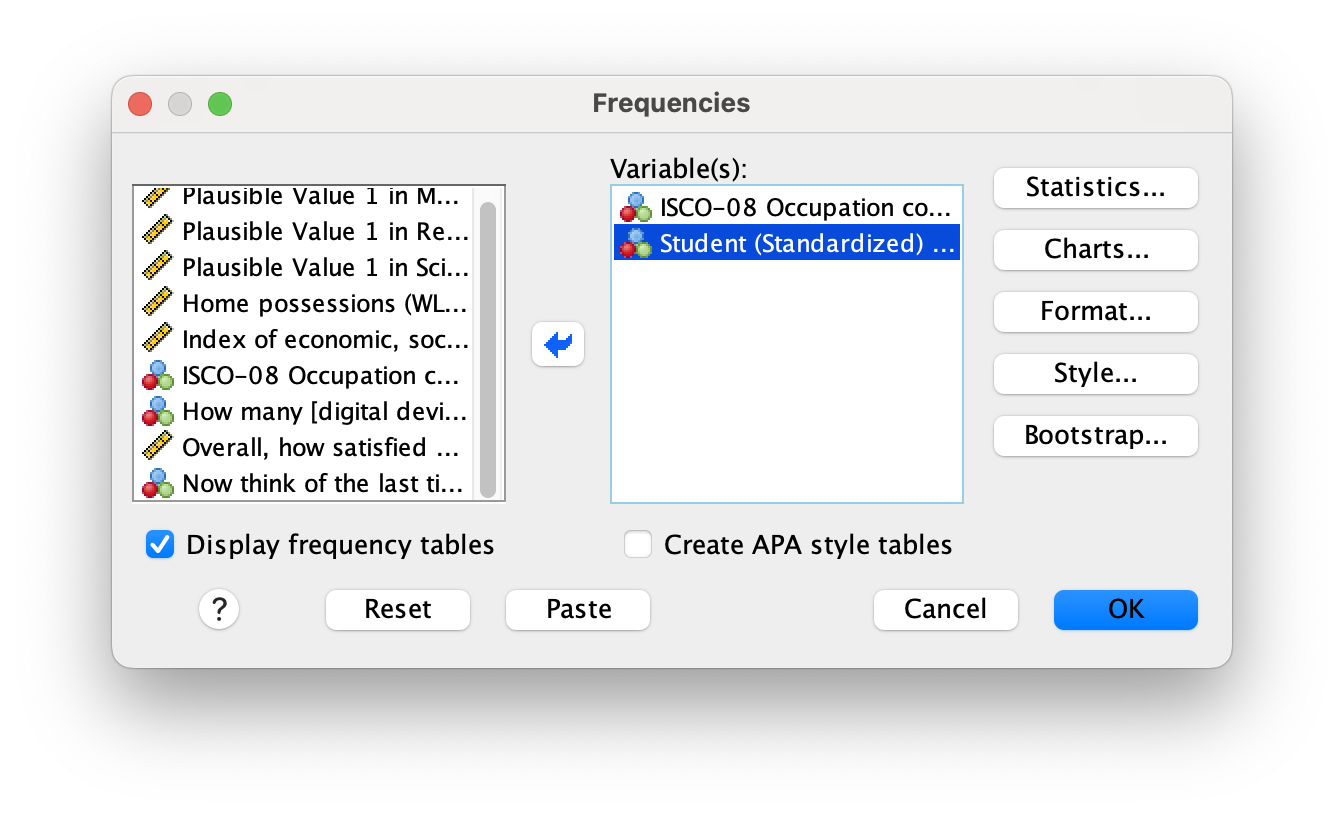
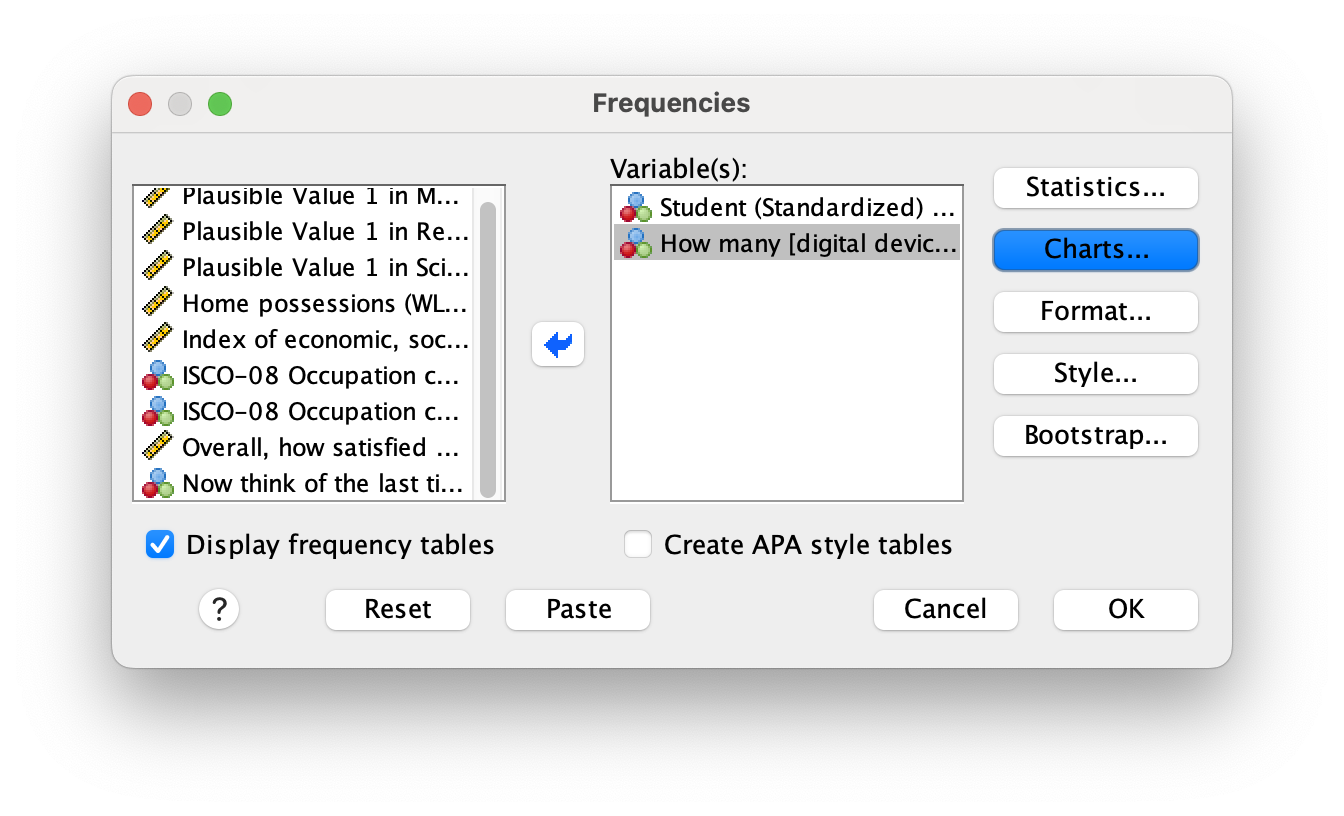
Image update

diff --git a/index.html b/index.html
@@ -621,6 +621,11 @@ Q6: What is the range of the number of digital devices in the home? What is the 
 </div>
 <p>Figure 2.4</p>
 <p>Click on OK and you will go straight to the output window where your information is generated. You may have some information in this window from the previous task so be aware of this. The new output provides frequency counts of the data for each of the variables you selected and also a series of percentages (see Fig 2.5). Note that for this analysis Percent and Valid Percent are the same as there are no missing data for these variables.</p>
+<p float="centre">
+</p><p><img src="images/Frequency_count.png" width="350" height="220"> <img src="images/Frequency_chart.png" width="350" height="220"></p>
+<p></p>
+<p float="centre">
+</p><p>Figure 2.5</p>
 <div class="callout callout-style-default callout-note callout-titled">
 <div class="callout-header d-flex align-content-center">
 <div class="callout-icon-container">
